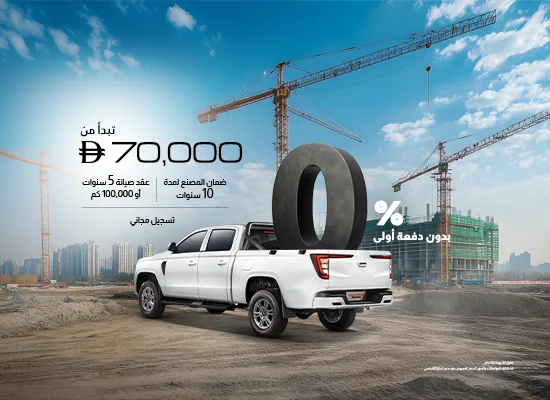
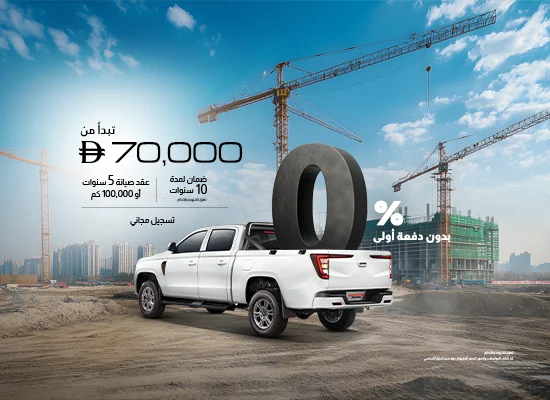
update 104

Changed region(s): [[0.7727, 0.87, 0.9582, 0.93], [0.3091, 0.42, 0.4018, 0.51]]

diff --git a/components/models/WarrantyDisclaimerSection.jsx b/components/models/WarrantyDisclaimerSection.jsx
@@ -3,7 +3,7 @@ import styles from "./WarrantyDisclaimerSection.module.css";
 export default function WarrantyDisclaimerSection({
   leftImage = "/assets/user/img/warranty-left.jpg",
   title = "Sinotruk Bolden Warranty & Services",
-  description = "The Sinotruk Bolden Commercial is backed by a detailed ownership program designed to support long-term performance and operational reliability. The vehicle comes with a 10-year manufacturer warranty, along with an inclusive 5-year or 100,000 km service package, whichever comes first, offering strong value for commercial operators and fleet customers across the UAE.",
+  description = "The Sinotruk Bolden Commercial is backed by a detailed ownership program designed to support long-term performance and operational reliability. The vehicle comes with a 10-year warranty (5 Year Manufacture & 5 Year Royal Swiss Auto Trading), along with an inclusive 5-year or 100,000 km service package, whichever comes first, offering strong value for commercial operators and fleet customers across the UAE.",
   description2 = "Visit Royal Swiss Auto Trading showroom to learn more about the Sinotruk Bolden Commercial, explore warranty and service benefits, and schedule a test drive.",
   disclaimerTitle = "Disclaimer",
   disclaimerText = `Vehicle specifications and options are subject to change by model and availability. Images and information are for marketing purposes only and are subject to change without prior notice. Terms and conditions apply.`,

diff --git a/components/ar/models/WarrantyDisclaimerSection.jsx b/components/ar/models/WarrantyDisclaimerSection.jsx
@@ -3,7 +3,7 @@ import styles from "./WarrantyDisclaimerSection.module.css";
 export default function WarrantyDisclaimerSection({
   leftImage = "/assets/user/img/warranty-left.jpg",
   title = "Sinotruk Bolden Warranty & Services",
-  description = "The Sinotruk Bolden Commercial is backed by a detailed ownership program designed to support long-term performance and operational reliability. The vehicle comes with a 10-year manufacturer warranty, along with an inclusive 5-year or 100,000 km service package, whichever comes first, offering strong value for commercial operators and fleet customers across the UAE.",
+  description = "The Sinotruk Bolden Commercial is backed by a detailed ownership program designed to support long-term performance and operational reliability. The vehicle comes with a 10-year warranty (5 Year Manufacture & 5 Year Royal Swiss Auto Trading), along with an inclusive 5-year or 100,000 km service package, whichever comes first, offering strong value for commercial operators and fleet customers across the UAE.",
   description2 = "Visit Royal Swiss Auto Trading showroom to learn more about the Sinotruk Bolden Commercial, explore warranty and service benefits, and schedule a test drive.",
   description3 = "",
   description4 = "",

diff --git a/data/offers-ar.js b/data/offers-ar.js
@@ -4,7 +4,7 @@ const OFFERS = [
     id: "b2s1",
     title: "صفقة سيارة أكثر ذكاءً",
     subtitle: [
-    "ضمان المصنع لمدة ١٠ سنوات",
+    "ضمان لمدة ١٠ سنوات",
     "عقد صيانة لمدة ٥ سنوات أو ٣٠٠,٠٠٠ كم",
     "تسجيل مجاني",
     "دفعة أولى ٠٪ (تطبق الشروط والأحكام)"
@@ -17,7 +17,7 @@ const OFFERS = [
     title: "عروض فلاش بولدن للقيادة!",
     subtitle: [
     "السعر يبدأ من ٧٠,٠٠٠ درهم إماراتي",
-    "ضمان المصنع لمدة 10 سنوات",
+    "ضمان لمدة 10 سنوات",
     "عقد صيانة لمدة ٥ سنوات أو ١٠٠,٠٠٠ كم",
     "تسجيل مجاني",
     "دفعة أولى ٠٪ (تطبق الشروط والأحكام)"

diff --git a/data/ar/offers.js b/data/ar/offers.js
@@ -4,7 +4,7 @@ const OFFERS = [
     id: "b2s1",
     title: "Smarter Car Deal",
     subtitle: [
-    "10 Years Manufacturer Warranty",
+    "10 Years Warranty",
     "5 Years or 300,000 KM Service Contract",
     "Free Registration",
     "0% down payment (T&C Apply)"
@@ -17,7 +17,7 @@ const OFFERS = [
     title: "Flash Bolden Drive Deals!",
     subtitle: [
     "Price starting for 70,000 AED",
-    "10 Years Manufacturer Warranty",
+    "10 Years Warranty",
     "5 Years or 300,000 KM Service Contract",
     "Free Registration",
     "0% down payment (T&C Apply)"
